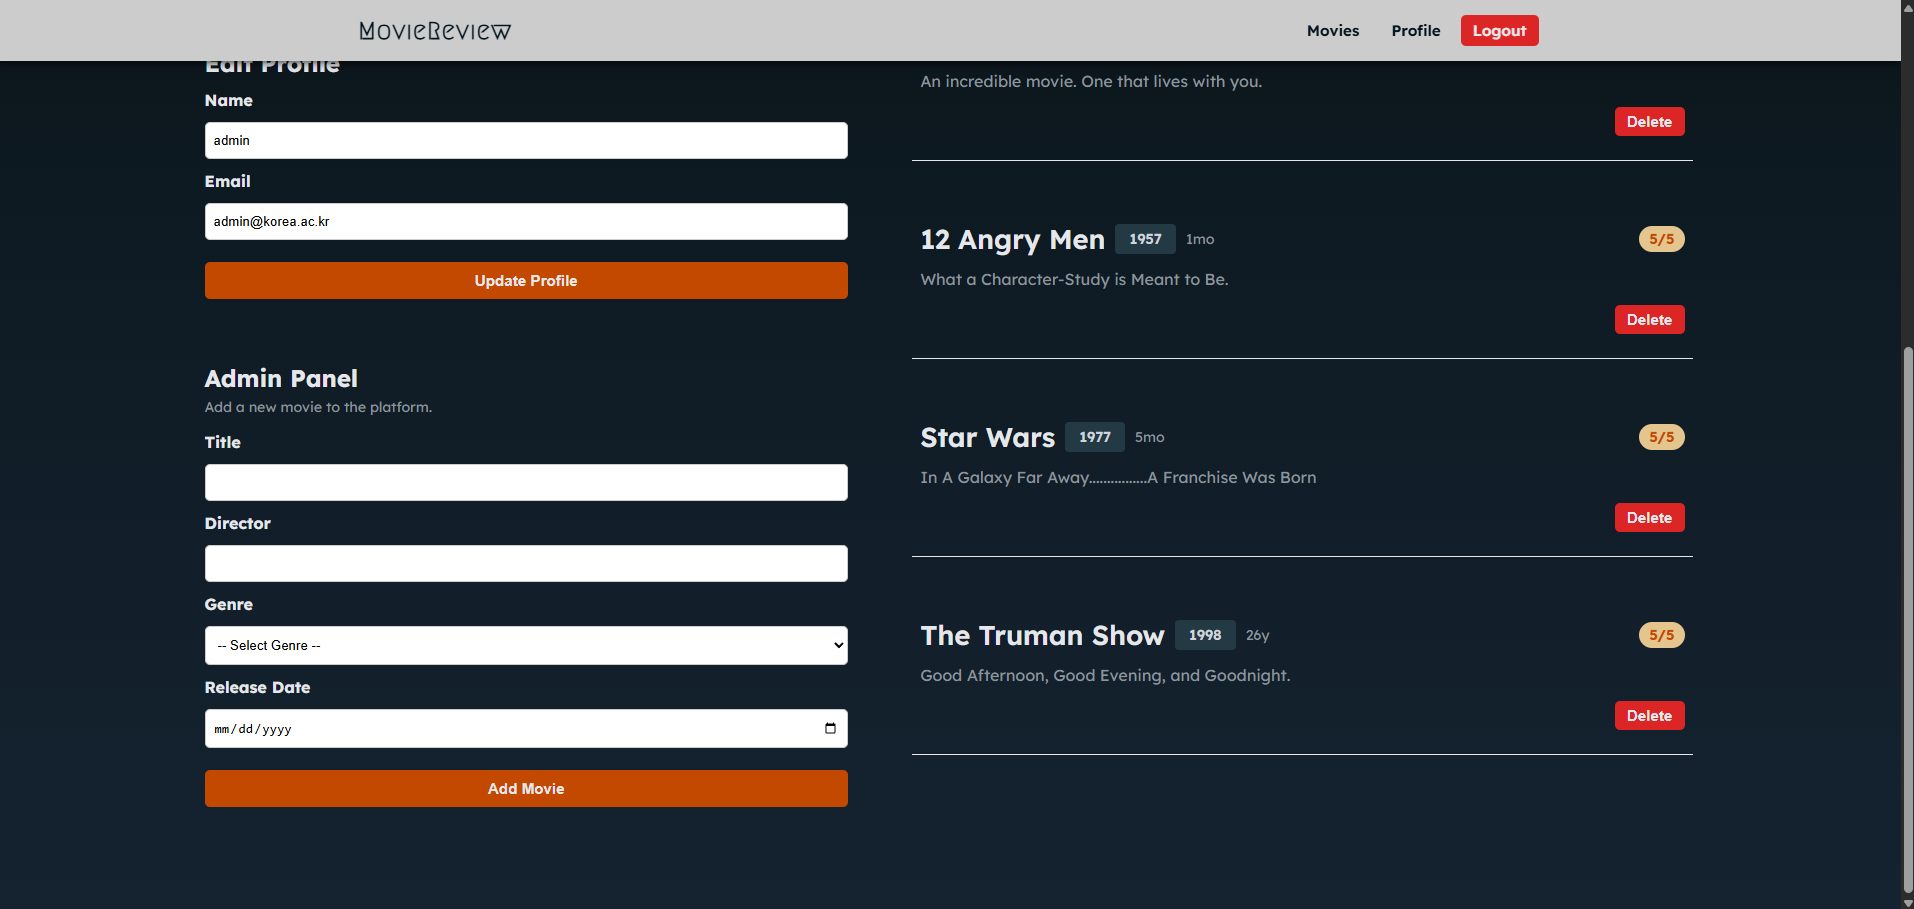
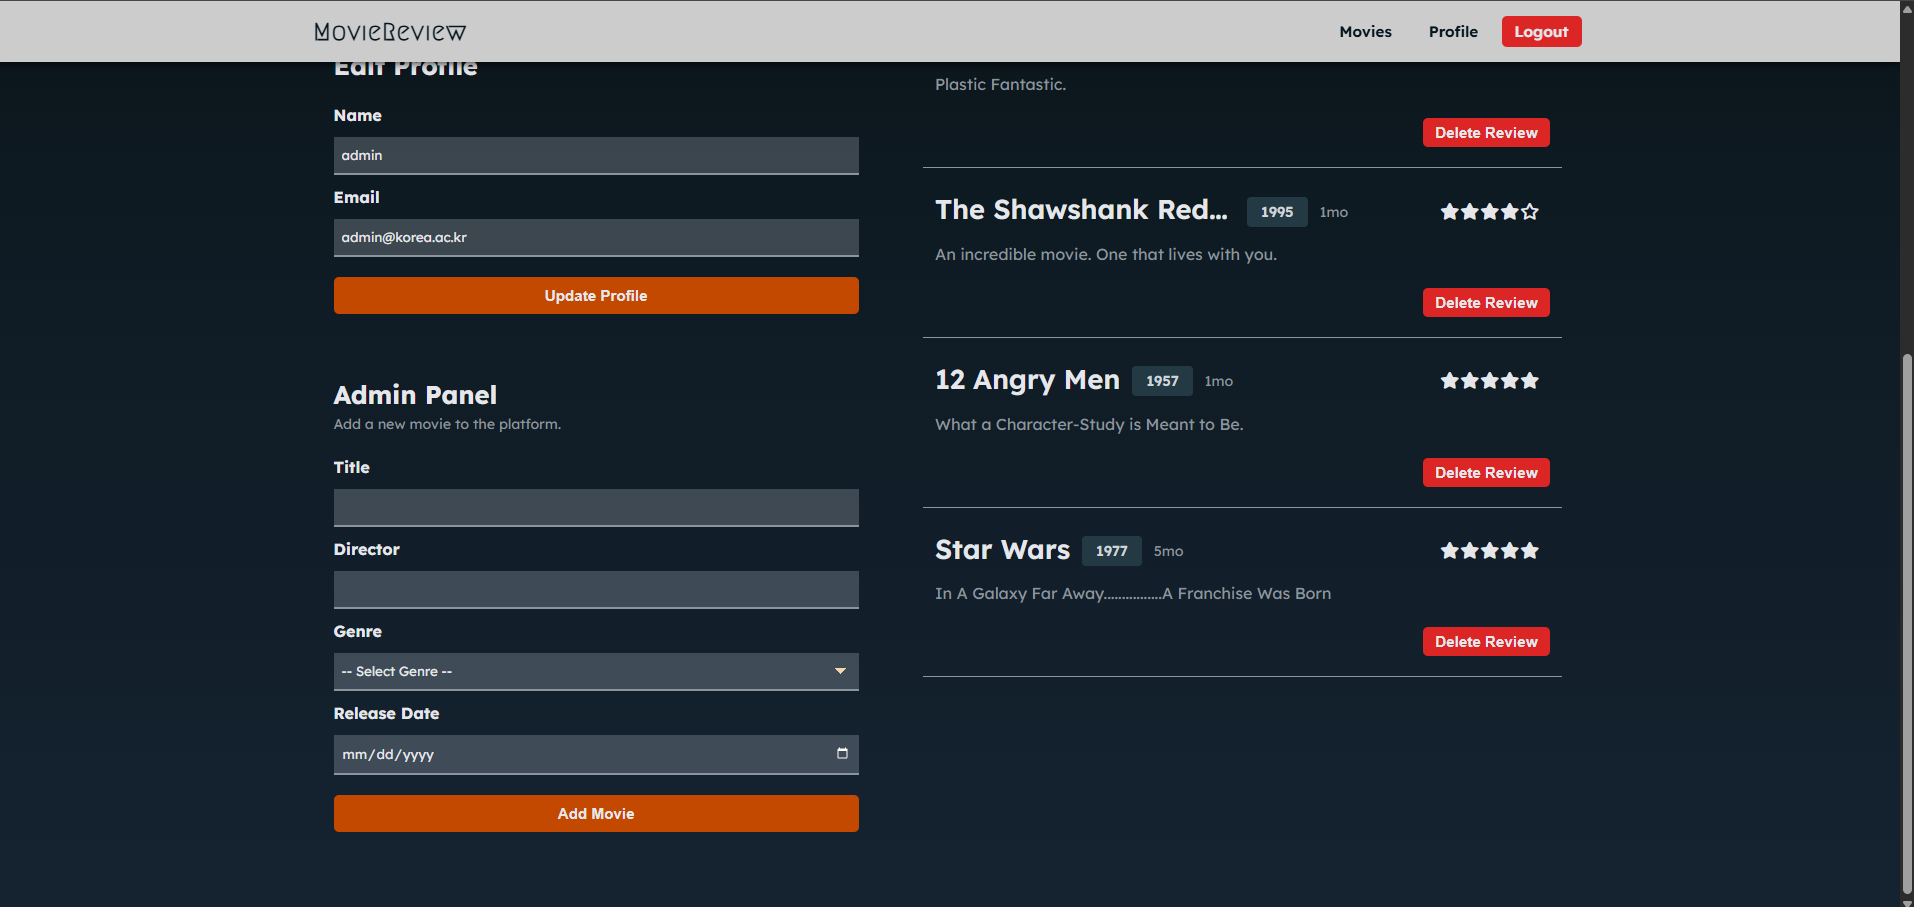
docs: update readme with latest features

diff --git a/README.md b/README.md
@@ -7,22 +7,23 @@ The project focuses on backend CRUD, PostgreSQL relationships, authentication, r
 ---
 
 ### Home Page
-![Home Page](screenshots/home.png)
-![Home Page](screenshots/home2.png)
+![Home Page](screenshots/homepage.png)
+![Home Page](screenshots/homepage2.png)
+
+### All Movies Page
+![All Movies Page](screenshots/movie_list_page.png)
 
 ### Movie Details Page
 ![Movie Details Page](screenshots/movie_detail.png)
 
 ### User Profile Page
-![User Profile Page](screenshots/user_profile.png)
-![User Profile Page](screenshots/user_profile2.png)
+![User Profile Page](screenshots/user_profile_page.png)
+![User Profile Page](screenshots/user_profile_page2.png)
 ![User Profile Page](screenshots/visit_user.png)
-
-### All Movies Page
-![All Movies Page](screenshots/movies.png)
 
 ### Admin Panel
 ![Admin Panel](screenshots/admin_panel.png)
+![Admin Panel](screenshots/admin_panel2.png)
 
 ---
 
@@ -42,6 +43,8 @@ The project focuses on backend CRUD, PostgreSQL relationships, authentication, r
 - Paginated movie list
 - Result summary such as `Showing 1 – 15 of 21 movies`
 - Admin can add new movies
+- Admin can update movie details
+- Admin can delete movies
 - Duplicate movie handling
 
 ### Reviews
@@ -70,6 +73,8 @@ The project focuses on backend CRUD, PostgreSQL relationships, authentication, r
 
 ## Admin Features
 - Add new movies
+- Update existing movies
+- Delete movies and related reviews
 - Admin-only role checks
 - Admin profile protection from follow/mute actions
 
@@ -80,6 +85,7 @@ The project focuses on backend CRUD, PostgreSQL relationships, authentication, r
 - Font Awesome icons
 - Card-based movie and review layout
 - Anchor navigation for review sorting on smaller screens
+- Reusable pagination styling
 
 ---
 
@@ -234,6 +240,7 @@ http://127.0.0.1:5000
 - Tablet → 2-column layout
 - Mobile → stacked layout
 - Navigation menu with toggle icon
+- Review and movie cards resize across screen widths
 
 ---
 
@@ -245,29 +252,34 @@ http://127.0.0.1:5000
 - Dynamic sort values are restricted through allowlists.
 - Admin-only features are protected by role checks.
 - User actions are guarded with session checks.
+- Delete actions use POST requests instead of GET links.
 
 ---
 
 ## What I Learned
 
-- Building Flask routes for authentication, profiles, movies, and reviews
+- Building Flask routes with blueprints
+- Registering route modules through routes/__init__.py
+- Handling authentication and user sessions
 - Designing PostgreSQL relationships and constraints
-- Handling user sessions and role-based access
-- Writing safer SQL queries with parameters
-- Improving UI with responsive layouts and reusable CSS
-- Managing feature growth through refactoring
+- Writing SQL queries with joins, filters, sorting, pagination, and NOT EXISTS
+- Implementing role-based access for admin features
+- Building reusable Jinja macros
+- Refactoring pagination logic into helper functions
+- Improving mobile layout with responsive CSS
+- Managing UI growth through CSS restructuring
 
 ---
 
 ## Future Improvements
 
-- Add admin movie edit and delete features
 - Add movie posters using an external API
 - Add star-based rating UI
 - Add movie detail statistics such as review count and rating distribution
+- Add user search
 - Add deployment support
-- Split routes into blueprints
-- Add admin movie edit and delete features
+- Add automated tests
+- Add CSRF protection for forms
 
 ---
 
